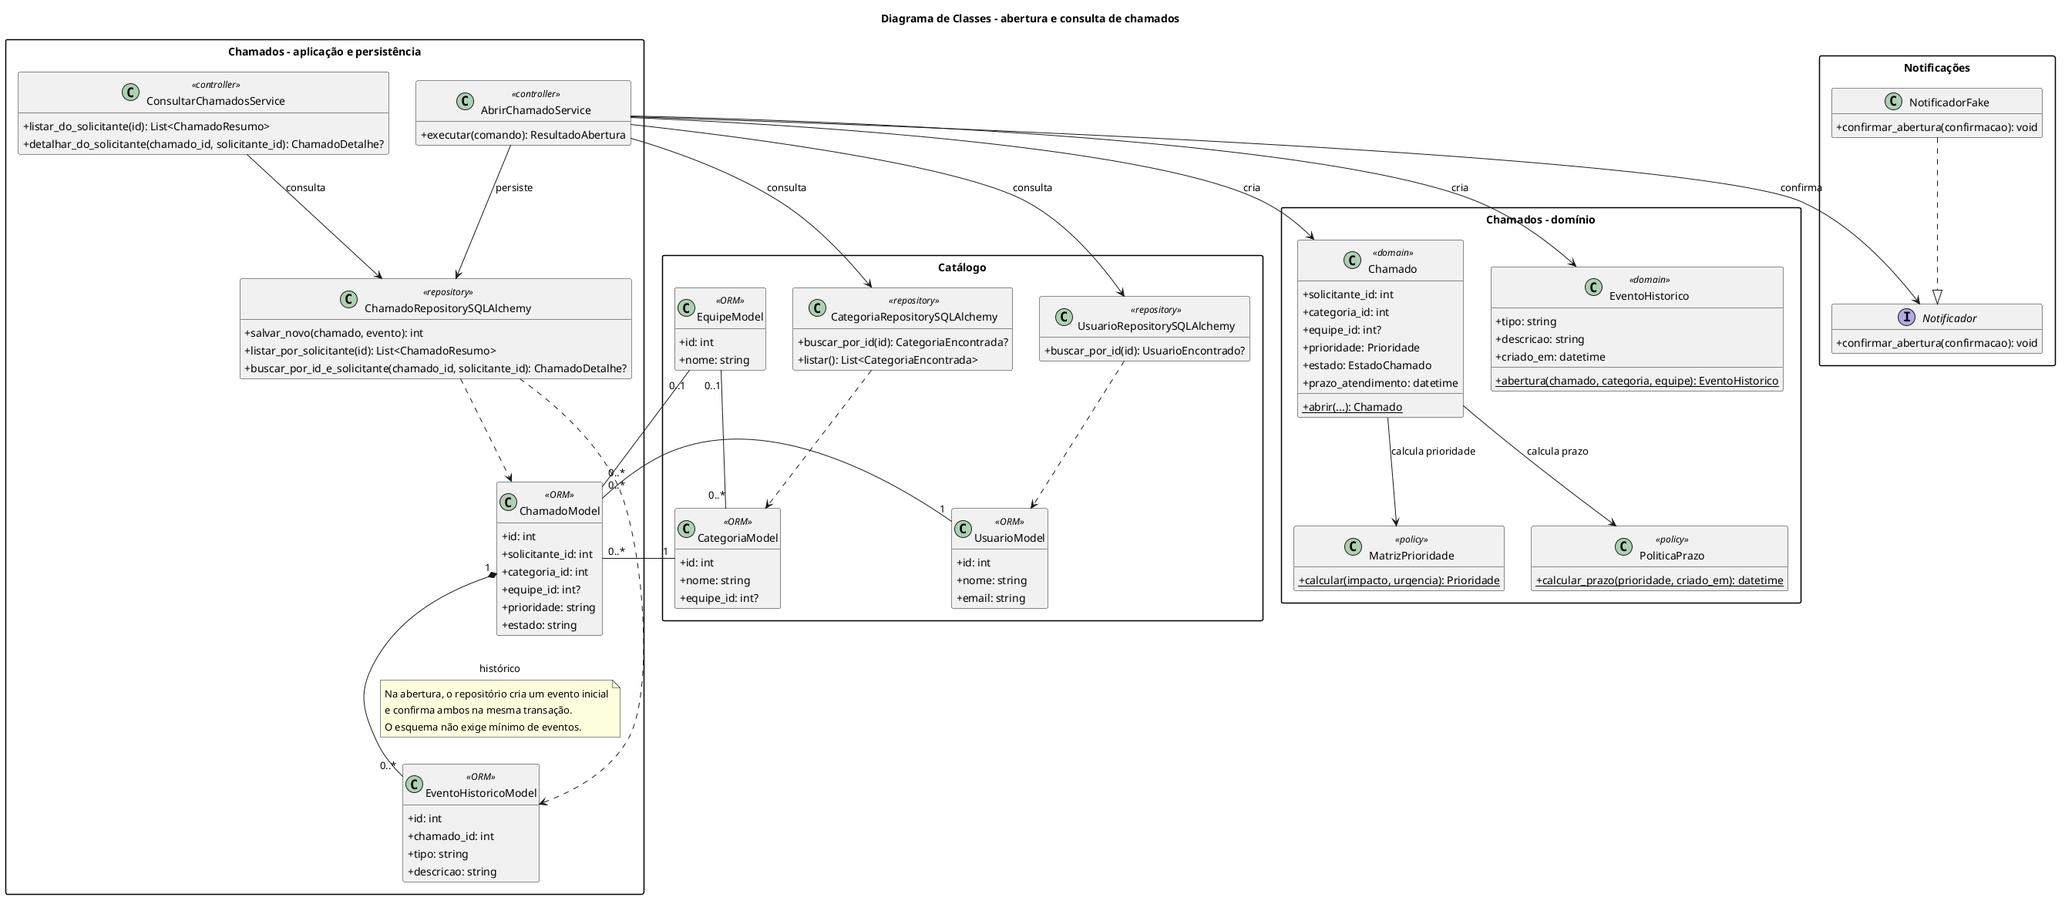
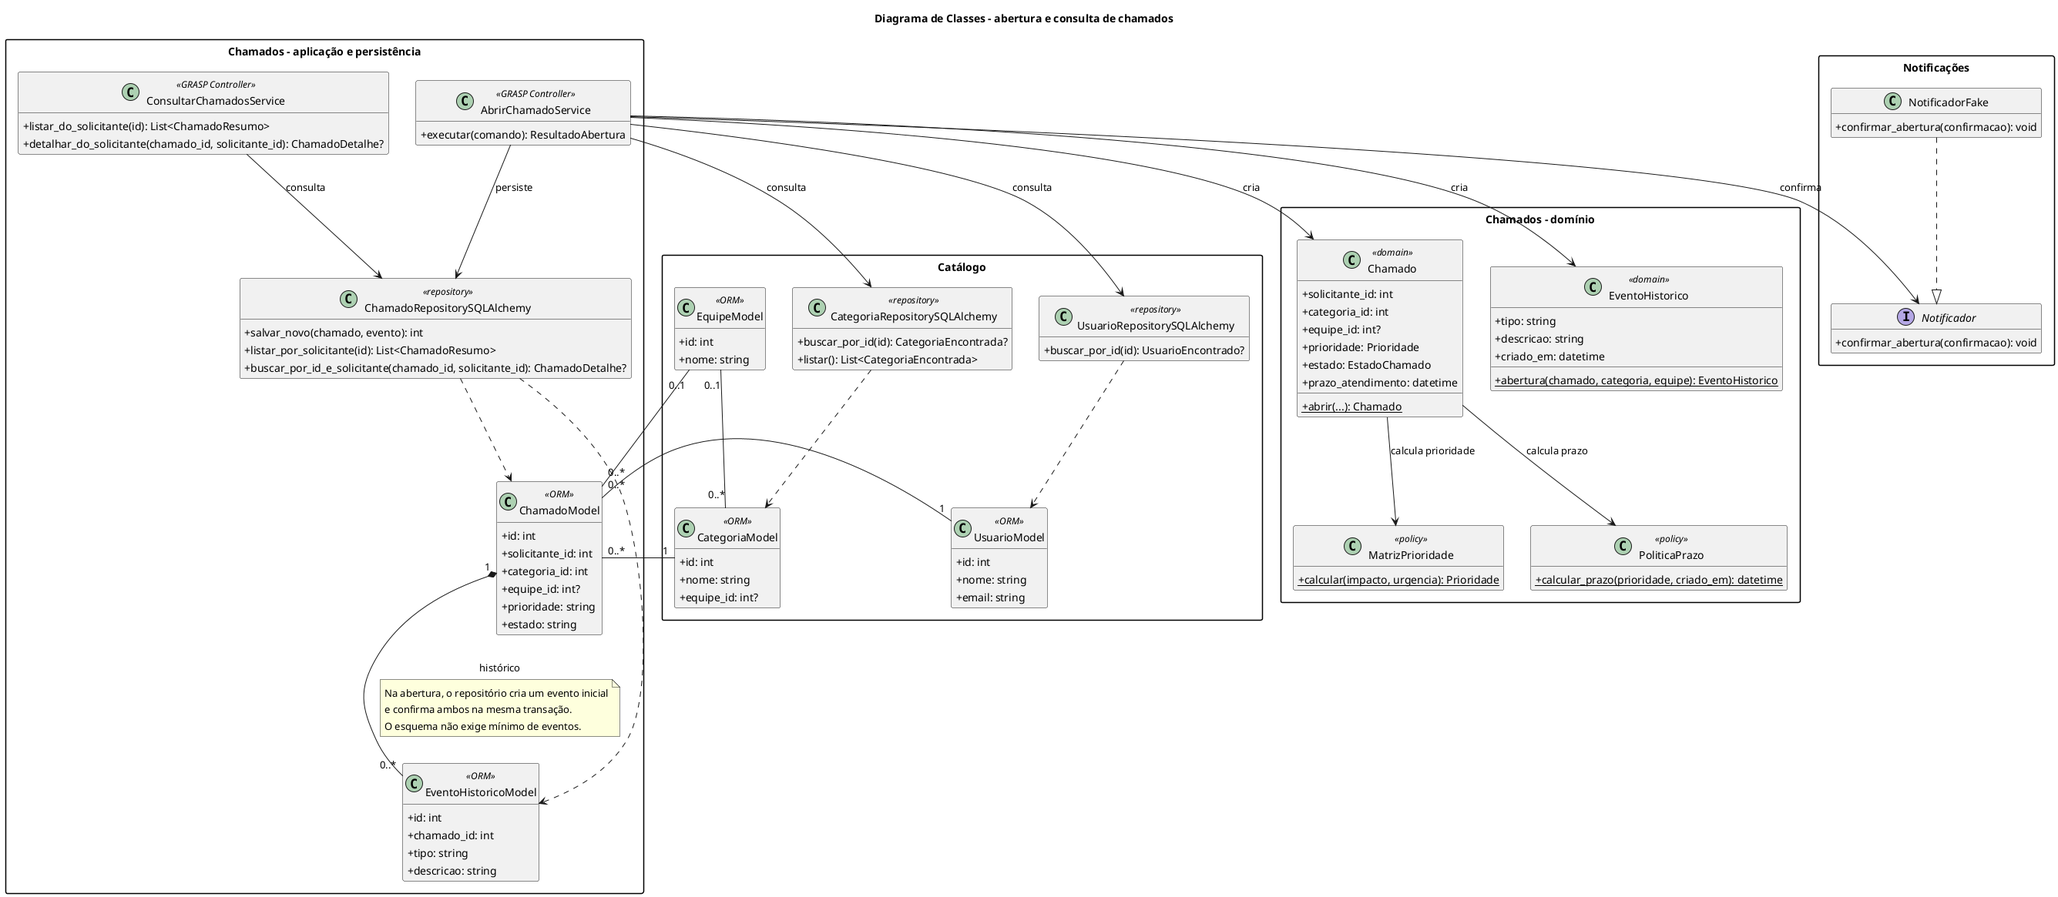
docs(arquitetura): corrige trade-offs e alinhamento da defesa

diff --git a/tests/test_abertura_chamado.py b/tests/test_abertura_chamado.py
@@ -127,3 +127,21 @@ def test_consulta_exibe_apenas_chamados_do_usuario_demo(app, client):
     assert resposta.status_code == 200
     assert b"Sem acesso ao sistema" in resposta.data
     assert b"Chamado de outro usu" not in resposta.data
+
+
+def test_detalhe_de_outro_solicitante_retorna_404(app, client):
+    with app.app_context():
+        service = app.extensions["abrir_chamado_service"]
+        resultado = service.executar(
+            AbrirChamadoComando(
+                solicitante_id=2,
+                categoria_id=1,
+                resumo="Chamado do Bruno",
+                descricao="Este chamado não pertence à usuária de demonstração.",
+                impacto="BAIXO",
+                urgencia="BAIXA",
+            )
+        )
+
+    resposta = client.get(f"/chamados/{resultado.chamado_id}")
+    assert resposta.status_code == 404

diff --git a/docs/roteiro-defesa.md b/docs/roteiro-defesa.md
@@ -18,17 +18,24 @@ usuário demo, e o filtro da consulta não equivale a autorização entre pessoa
    novos dados de contato também exige evolução do catálogo e da montagem da
    confirmação no serviço.
 3. **Modificabilidade da prioridade:** a matriz muda em um único componente do
-   domínio e em seus testes.
+   domínio e em seus testes quando são alteradas combinações entre os níveis já
+   existentes. Um novo nível de prioridade afetaria também prazo e demais usos do
+   enum.
 
 ## 3. Arquitetura escolhida
 
 Foi escolhido **cliente-servidor + monólito modular + camadas + MVC na
-apresentação**. Essa combinação mantém a transação local do ASR-01 e separa regras,
-HTTP, persistência e integração sem o custo operacional de microsserviços.
+apresentação**. O ASR-01 mantém chamado e histórico na mesma fronteira
+transacional; os ASRs 02 e 03 justificam separar integração e políticas internas.
+O monólito foi escolhido também porque não existem requisitos de implantação ou
+escala independentes, equipes autônomas ou isolamento por processo.
 
 Não foi adotada Arquitetura Hexagonal nem uma camada genérica de portas. A
 interface **Notificador** existe porque o enunciado exige uma dependência externa
 substituível e há uma variação concreta nesse ponto.
+
+Também não foi adotado microkernel: chamados, catálogo e notificações são partes
+fixas do fluxo, e não plugins opcionais com instalação e ciclo de vida próprios.
 
 ## 4. Duas decisões para justificar
 
@@ -39,7 +46,22 @@ substituível e há uma variação concreta nesse ponto.
 - **Ganho:** transação, teste, execução e implantação simples.
 - **Custo:** os módulos escalam e são implantados juntos.
 - **Por que não microsserviços:** não existe requisito de escala independente,
-  equipes autônomas ou implantação separada que pague a complexidade distribuída.
+  equipes autônomas ou implantação separada que pague rede, falhas parciais,
+  observabilidade e múltiplas implantações. Microsserviços ainda poderiam manter
+  chamado e histórico no mesmo serviço; o ASR-01 não os proíbe por si só.
+
+### Camadas em vez de Hexagonal ou microkernel
+
+- **Por que não Hexagonal:** há uma apresentação e uma persistência concreta. Portas
+  para todos os repositórios e adaptadores adicionais não atenderiam uma variação
+  atual. A aplicação inclusive depende de repositórios SQLAlchemy concretos.
+- **Por que existe uma interface:** `Notificador` protege somente o ponto em que há
+  substituição externa prevista; uma interface isolada não torna a arquitetura
+  hexagonal.
+- **Por que não microkernel:** não existem plugins opcionais, descoberta dinâmica ou
+  versionamento de extensões. A matriz é uma política de domínio, não um plugin.
+- **Trade-off das camadas:** menos abstrações e montagem mais simples; em troca, a
+  troca da persistência exigiria alterar os repositórios concretos.
 
 ### Notificação síncrona e substituível
 
@@ -60,8 +82,8 @@ substituível e há uma variação concreta nesse ponto.
 5. Abrir a lista do usuário de demonstração. Explicar que o filtro por
    solicitante é verificado no teste automatizado da lista, sem alegar
    autenticação ou isolamento de visitantes reais.
-6. Executar `pytest` e destacar os 19 testes, especialmente matriz, rollback e
-   falha de notificação.
+6. Executar `pytest` e destacar os 20 testes, especialmente matriz, rollback,
+   isolamento da consulta e falha de notificação.
 
 ## 6. Perguntas prováveis
 
@@ -99,7 +121,40 @@ não guarda uma versão formal da matriz aplicada a cada chamado.
 O chamado e o histórico já foram confirmados. A falha gera um aviso e não executa
 rollback. O custo é não haver repetição automática nesta versão.
 
+Na demonstração, o **NotificadorFake** apenas registra a confirmação em memória. Uma
+implementação de produção poderia enviar e-mail ou outra mensagem preservando o
+contrato, mas exigiria credenciais, configuração e testes de integração.
+
 **O que muda se houver aplicativo móvel?**
 A camada de apresentação ganha uma API HTTP e o aplicativo passa a consumi-la. O
 domínio, a matriz, o prazo e a persistência podem permanecer; autenticação e formato
 das respostas precisam ser projetados.
+
+## 7. Mudanças de cenário do enunciado
+
+### Substituição do serviço de e-mail
+
+Criar outra implementação de **Notificador** e alterar sua composição. Se o canal
+usar o e-mail existente, abertura, prioridade e banco de chamados permanecem. Se
+exigir telefone ou preferência de canal, catálogo e montagem da confirmação também
+mudam.
+
+### Aumento significativo de carga
+
+Medir primeiro os gargalos. Os candidatos iniciais são servidor de desenvolvimento,
+SQLite e notificação síncrona. A evolução provável inclui servidor WSGI, PostgreSQL,
+índices, testes de carga e observabilidade. O monólito pode ter várias instâncias,
+mas seus módulos continuam escalando juntos.
+
+### Troca do mecanismo de persistência
+
+SQLAlchemy e a concentração das consultas nos repositórios reduzem os pontos de
+alteração. Ainda seria necessário trocar driver e configuração, criar migrações e
+reexecutar testes de integração. Não é apenas mudar a URL de conexão.
+
+### Implantação independente de uma funcionalidade
+
+Notificações é a candidata mais simples porque não precisa retirar chamado e
+histórico da mesma transação. Seriam necessários contrato de rede, autenticação,
+tratamento de indisponibilidade e observabilidade. Entrega garantida exigiria
+persistir a intenção e processá-la posteriormente, por exemplo com outbox e fila.

diff --git a/docs/tradeoffs.md b/docs/tradeoffs.md
@@ -1,37 +1,56 @@
 # Alternativas e trade-offs
 
-## 1. Alternativas
+## 1. Eixos da decisão
 
-Foram comparadas três formas de organizar a solução:
+As alternativas não pertencem todas ao mesmo eixo. Monólito e microsserviços tratam
+principalmente de implantação e distribuição. Camadas, Arquitetura Hexagonal e
+microkernel tratam da organização interna e das dependências. A solução combina uma
+decisão de cada nível: **monólito modular** como topologia e **camadas** como
+organização interna.
 
-1. monólito simples sem módulos explícitos;
-2. monólito modular em camadas, escolhido;
-3. microsserviços.
-
-## 2. Comparação
+## 2. Topologia e implantação
 
 | Critério | Monólito simples | Monólito modular em camadas | Microsserviços |
 |---|---|---|---|
 | Modificabilidade | Baixa se regras, SQL e HTTP forem misturados. | Mudanças ficam concentradas nos módulos e camadas. | Alta independência quando fronteiras estão maduras. |
-| Consistência | Transações locais simples. | Transações locais simples e fronteiras explícitas. | Exige consistência distribuída entre serviços. |
+| Consistência | Transações locais simples. | Transações locais simples e fronteiras explícitas. | Continua local dentro de um serviço; operações entre bancos de serviços exigem coordenação ou consistência eventual. |
 | Testabilidade | Pode exigir interface e banco se regras não forem isoladas. | Regras podem ser testadas sem HTTP. | Exige testes de contrato e de comunicação. |
 | Implantação | Um artefato simples. | Um artefato simples. | Várias implantações e configuração de rede. |
 | Escalabilidade | Escala a aplicação inteira. | Escala a aplicação inteira. | Permite escala independente. |
 | Complexidade inicial | Menor. | Moderada e compatível com o trabalho. | Alta e sem requisito que a justifique. |
-| Custo operacional | Baixo. | Baixo. | Alto. |
+| Custo operacional | Baixo. | Baixo. | Maior: rede, observabilidade e várias implantações. |
 
-## 3. Decisão
+O ASR-01 exige que chamado e histórico permaneçam na mesma fronteira transacional,
+mas não obriga que toda a aplicação seja monolítica. O monólito modular foi escolhido
+porque, além de atender essa fronteira local, não existem requisitos de implantação
+independente, escala separada, equipes autônomas ou isolamento por processo.
 
-O **monólito modular em camadas** foi escolhido porque preserva a transação local do
-ASR-01 e permite isolar a prioridade e a notificação dos ASRs 02 e 03 sem introduzir
-rede, mensageria ou múltiplos bancos.
+## 3. Organização interna
+
+| Alternativa | Ganho | Custo ou inadequação ao cenário atual |
+|---|---|---|
+| Camadas no monólito modular | Separa HTTP, coordenação, domínio e persistência com poucos mecanismos adicionais. | As dependências não são invertidas em todas as fronteiras e existe acesso direto localizado da apresentação ao catálogo. |
+| Arquitetura Hexagonal | Isola o núcleo por portas e facilita trocar entradas, persistência e integrações. | Exigiria portas para repositórios, adaptadores e mapeamentos sem haver múltiplas persistências ou apresentações no protótipo. |
+| Microkernel | Permite ampliar um núcleo estável por plugins opcionais. | Não há descoberta, instalação ou ciclo de vida de plugins; os módulos atuais são partes fixas do fluxo. |
+
+A interface **Notificador** não transforma a solução em Hexagonal: ela é uma
+abstração pontual para uma variação externa concreta. Da mesma forma,
+**MatrizPrioridade** não é um plugin de microkernel; é uma política coesa chamada
+diretamente pelo domínio.
+
+## 4. Decisão
+
+O **monólito modular em camadas** foi escolhido porque mantém chamado e histórico na
+mesma fronteira transacional do ASR-01 e fornece separação interna suficiente para a
+notificação e a prioridade dos ASRs 02 e 03, sem introduzir rede, mensageria,
+infraestrutura de plugins ou portas para variações que ainda não existem.
 
 O monólito simples teria menos arquivos, mas aumentaria o risco de concentrar
 validação, prioridade e SQL nas rotas. Microsserviços permitiriam implantação
 independente, porém o protótipo possui uma equipe pequena, uma única implantação e
 nenhum requisito de escala independente.
 
-## 4. Custos aceitos
+## 5. Custos aceitos
 
 - os módulos são implantados e escalados juntos;
 - o banco é compartilhado;
@@ -40,8 +59,10 @@ nenhum requisito de escala independente.
 - a interface de notificação adiciona uma abstração, justificada pelo enunciado e
   pela necessidade de substituição.
 
-## 5. Quando reavaliar
+## 6. Quando reavaliar
 
 A decisão deve ser revista se surgirem equipes autônomas, implantação independente,
 escalas muito diferentes entre módulos ou integrações que não possam compartilhar a
-disponibilidade do monólito.
+disponibilidade do monólito. Arquitetura Hexagonal deve ser reconsiderada se surgirem
+múltiplas apresentações ou persistências que precisem ser substituídas; microkernel,
+se o produto passar a exigir plugins opcionais mantidos e carregados separadamente.

diff --git a/docs/adr/ADR-001.md b/docs/adr/ADR-001.md
@@ -19,6 +19,12 @@ Três necessidades influenciam diretamente a organização da solução:
 - a matriz de prioridade precisa mudar sem espalhar alterações por rotas, templates e
   persistência (ASR-03).
 
+Essas necessidades atuam em níveis diferentes. O ASR-01 restringe a fronteira
+transacional de chamado e histórico; ele não obriga que toda a aplicação seja um
+monólito. Os ASRs 02 e 03 orientam a separação interna da integração e das regras de
+domínio. A topologia de monólito também depende das forças operacionais descritas a
+seguir.
+
 Ao mesmo tempo, não existe requisito de implantação independente, escala diferente
 por funcionalidade, equipes autônomas ou isolamento de falhas entre serviços. A
 aplicação será demonstrada localmente e mantida por um grupo pequeno.
@@ -57,10 +63,34 @@ e 03 sem criar comunicação distribuída.
 ### 3. Microsserviços
 
 Permitiriam implantação e escala independentes, além de maior isolamento entre
-partes. Porém, separar chamados e histórico, ou chamados e catálogo, introduziria
-chamadas de rede, falhas parciais, versionamento de contratos e, possivelmente,
-consistência distribuída. Como nenhuma dessas independências é exigida no cenário
-atual, o custo seria imediato e o benefício apenas hipotético.
+partes. Chamado e histórico poderiam continuar no mesmo serviço e preservar uma
+transação local; portanto, microsserviços não violariam necessariamente o ASR-01.
+Entretanto, a separação entre chamados, catálogo e notificações introduziria chamadas
+de rede, falhas parciais, autenticação entre serviços, versionamento de contratos,
+observabilidade e várias implantações. Uma operação que atravessasse bancos de
+serviços diferentes também exigiria coordenação ou consistência eventual. Como
+nenhuma independência de implantação, escala ou equipe é exigida no cenário atual,
+o custo seria imediato e o benefício apenas hipotético.
+
+### 4. Arquitetura Hexagonal
+
+Separaria o núcleo de aplicação de tecnologias externas por portas e adaptadores.
+Seria útil se houvesse múltiplas persistências, várias apresentações ou necessidade
+de substituir sistematicamente dependências externas. No protótipo existe uma
+apresentação web e uma persistência SQLAlchemy concreta. Criar portas para todos os
+repositórios, adaptadores de entrada e mapeamentos adicionais aumentaria o número de
+elementos sem atender a uma variação atual. Foi abstraído somente o notificador,
+onde há uma substituição concreta prevista.
+
+### 5. Microkernel
+
+Um microkernel seria adequado para um núcleo estável ampliado por plugins opcionais,
+descobertos e carregados segundo contratos próprios. Chamados, catálogo e
+notificações participam de um fluxo fixo; não há instalação dinâmica, remoção ou
+versionamento de plugins. A matriz de prioridade é uma política de domínio e o
+notificador é um ponto específico de substituição, não um ecossistema de extensões.
+Adotar microkernel exigiria registro e ciclo de vida de plugins sem um requisito que
+justificasse essa infraestrutura.
 
 ## Decisão
 
@@ -74,10 +104,11 @@ somente na apresentação.
 - A apresentação traduz HTTP; a aplicação coordena o caso de uso; o domínio aplica
   as regras; os repositórios realizam a persistência.
 
-Não foi adotada Arquitetura Hexagonal nem uma camada genérica de portas. Foi criada
-apenas a interface `Notificador`, pois existe uma variação externa concreta nesse
-ponto. Interfaces adicionais sem uma necessidade de substituição apenas aumentariam
-o tamanho da solução.
+Não foi adotada Arquitetura Hexagonal nem uma camada genérica de portas. A aplicação
+depende de repositórios SQLAlchemy concretos e a apresentação possui uma consulta
+direta localizada ao catálogo. Foi criada apenas a interface `Notificador`, pois
+existe uma variação externa concreta nesse ponto. Também não foi adotado
+microkernel, porque os módulos são fixos e não constituem plugins opcionais.
 
 ## Consequências positivas
 

diff --git a/docs/requisitos.md b/docs/requisitos.md
@@ -72,8 +72,10 @@ Ao abrir um chamado, o chamado e o evento inicial de histórico devem ser gravad
 na mesma transação. Se qualquer uma dessas gravações falhar, nenhuma deve ser
 confirmada.
 
-**Influência arquitetural:** exige persistência transacional compartilhada entre
-chamado e histórico. Favorece banco relacional e monólito com transação local.
+**Influência arquitetural:** exige que chamado e histórico permaneçam na mesma
+fronteira transacional. No protótipo, isso é realizado em um banco relacional
+compartilhado e uma transação local. Esse requisito, isoladamente, não obriga que
+todo o sistema seja um monólito.
 
 ### ASR-02 - Substituição da notificação
 
@@ -93,6 +95,10 @@ Se a combinação entre impacto, urgência e prioridade mudar, a alteração dev
 restrita à **MatrizPrioridade** e aos seus testes. Rotas, templates e persistência
 não devem conter cópias da matriz.
 
+Esse escopo considera mudanças nas combinações entre os níveis já existentes.
+Criar um novo nível de prioridade também afetaria **Prioridade**,
+**PoliticaPrazo**, seus testes e possivelmente a apresentação.
+
 **Influência arquitetural:** exige isolar a política em um elemento coeso do
 domínio, evitando condicionais duplicadas em outras camadas.
 
@@ -108,5 +114,5 @@ uma versão formal da matriz utilizada em cada chamado.
 4. Categoria sem equipe gera estado **EM_TRIAGEM**.
 5. Campo obrigatório ausente impede a gravação.
 6. A consulta de um solicitante não retorna chamados de outro.
-7. A confirmação é enviada ao **NotificadorFake**.
+7. A confirmação é registrada pelo **NotificadorFake**.
 8. Falha da notificação não remove o chamado já persistido.

diff --git a/docs/plano-implementacao-e-testes.md b/docs/plano-implementacao-e-testes.md
@@ -28,7 +28,7 @@ de atendimento por técnico. O usuário é fixo na configuração, sem login rea
 | RF-02 / ASR-03 | MatrizPrioridade | test_matriz_de_prioridade, 9 casos |
 | RF-03 | CategoriaRepository e Chamado.abrir | test_categoria_sem_equipe_encaminha_para_triagem |
 | RF-04 / ASR-01 | ChamadoRepositorySQLAlchemy.salvar_novo | test_abertura_persiste_chamado_historico_e_notifica; test_falha_ao_gravar_historico_desfaz_todo_o_commit |
-| RF-05 | listar_por_solicitante | test_consulta_exibe_apenas_chamados_do_usuario_demo |
+| RF-05 | listar_por_solicitante e buscar_por_id_e_solicitante | test_consulta_exibe_apenas_chamados_do_usuario_demo; test_detalhe_de_outro_solicitante_retorna_404 |
 | RF-06 | PoliticaPrazo | test_politica_de_prazo, 4 casos |
 | ASR-02 | Notificador e NotificadorFake | testes de abertura e de falha da notificação |
 
@@ -49,10 +49,8 @@ de atendimento por técnico. O usuário é fixo na configuração, sem login rea
 7. rollback completo quando a gravação do histórico falha;
 8. chamada ao notificador;
 9. preservação do chamado quando a notificação falha;
-10. lista filtrada, sem incluir chamados de outro identificador de solicitante.
-
-O detalhe também aplica o filtro por solicitante no código, mas ainda não há um
-teste automatizado específico para o acesso direto ao detalhe de outro usuário.
+10. lista filtrada, sem incluir chamados de outro identificador de solicitante;
+11. acesso direto ao detalhe de outro solicitante respondido com HTTP 404.
 
 ## 5. Limites
 

diff --git a/README.md b/README.md
@@ -55,7 +55,7 @@ pytest
 
 Os testes cobrem as nove combinações da matriz de prioridade, os quatro prazos,
 abertura normal, triagem, validação, rollback transacional, histórico, isolamento
-da consulta e falha do notificador.
+da lista e do detalhe por solicitante e falha do notificador.
 
 ## Arquitetura
 
@@ -78,7 +78,7 @@ existe porque a dependência externa deve ser substituível.
 | [Modelo de domínio](docs/modelo-dominio.md) | Responsabilidades, relações, GRASP, coesão, acoplamento e SOLID. |
 | [Prioridade e prazo](docs/prioridade-e-ciclo-de-vida.md) | Matriz, prazo inicial e estados considerados. |
 | [Arquitetura](docs/arquitetura.md) | Componentes, dependências, comunicação, persistência e implantação. |
-| [Trade-offs](docs/tradeoffs.md) | Comparação com monólito simples e microsserviços. |
+| [Trade-offs](docs/tradeoffs.md) | Comparação de implantação e organização interna, incluindo microsserviços, hexagonal e microkernel. |
 | [Evolução](docs/evolucao.md) | Banco, notificação, aplicativo móvel, aumento de carga e implantação independente. |
 | [Plano e testes](docs/plano-implementacao-e-testes.md) | Escopo implementado e rastreabilidade dos testes. |
 | [Roteiro de defesa](docs/roteiro-defesa.md) | Sequência de apresentação e respostas concretas a perguntas prováveis. |

diff --git a/docs/arquitetura.md b/docs/arquitetura.md
@@ -135,6 +135,11 @@ deveria usar servidor WSGI, banco gerenciado, configuração externa e autentica
 
 | ASR | Resposta arquitetural |
 |---|---|
-| ASR-01 - consistência | Banco compartilhado e transação local para chamado e histórico. |
+| ASR-01 - consistência | Mesma fronteira transacional para chamado e histórico, realizada no banco compartilhado. |
 | ASR-02 - notificação substituível | Interface Notificador e implementação composta na inicialização. |
 | ASR-03 - prioridade modificável | Matriz isolada no domínio e coberta por nove testes; prioridade e prazo calculados são persistidos, mas a versão da matriz não é. |
+
+O ASR-01 restringe a fronteira de chamado e histórico, mas não determina sozinho a
+topologia de toda a aplicação. Os ASRs 02 e 03 justificam fronteiras internas e a
+organização em camadas. A escolha do monólito modular também considera a ausência
+de requisitos de implantação independente, escala por módulo ou equipes autônomas.
